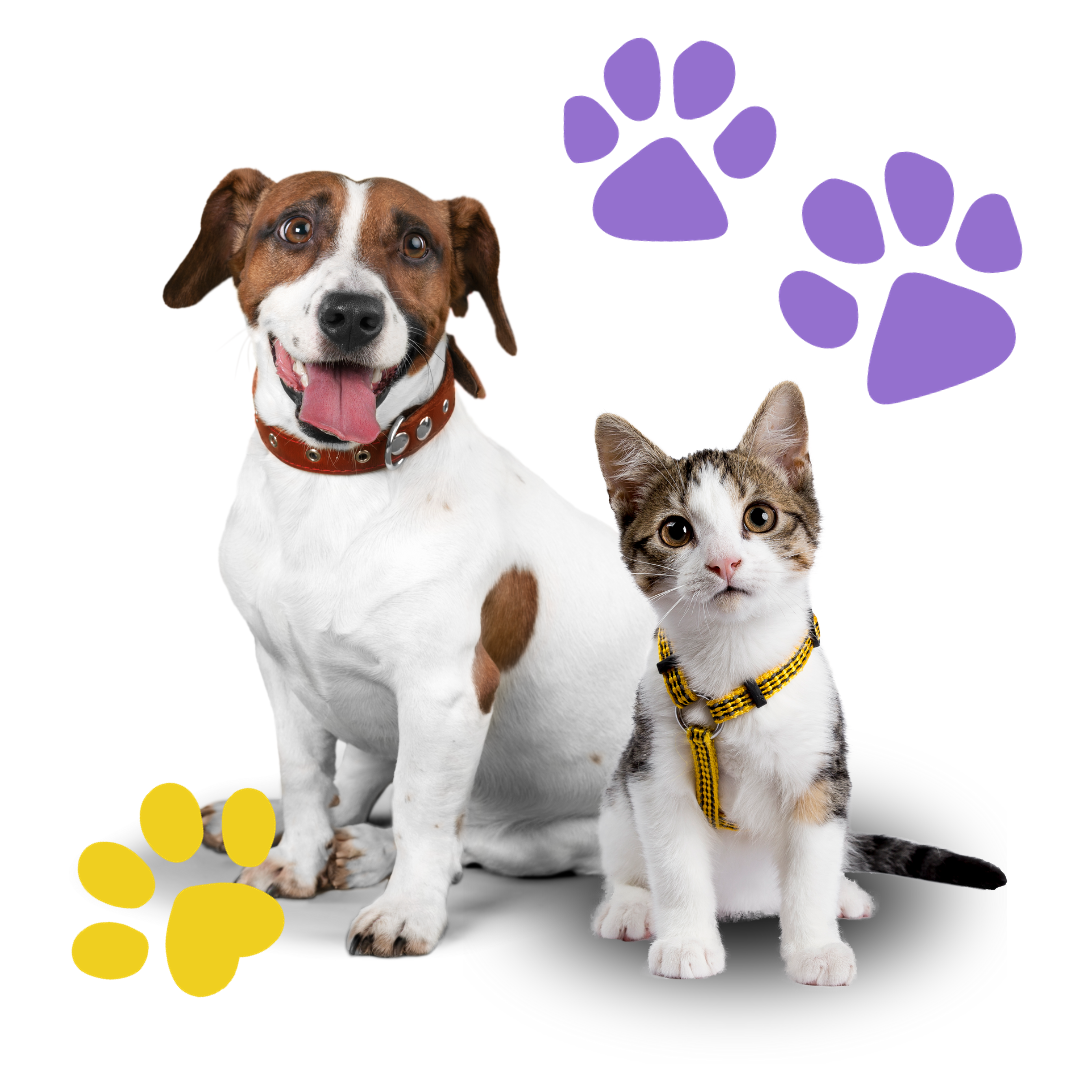
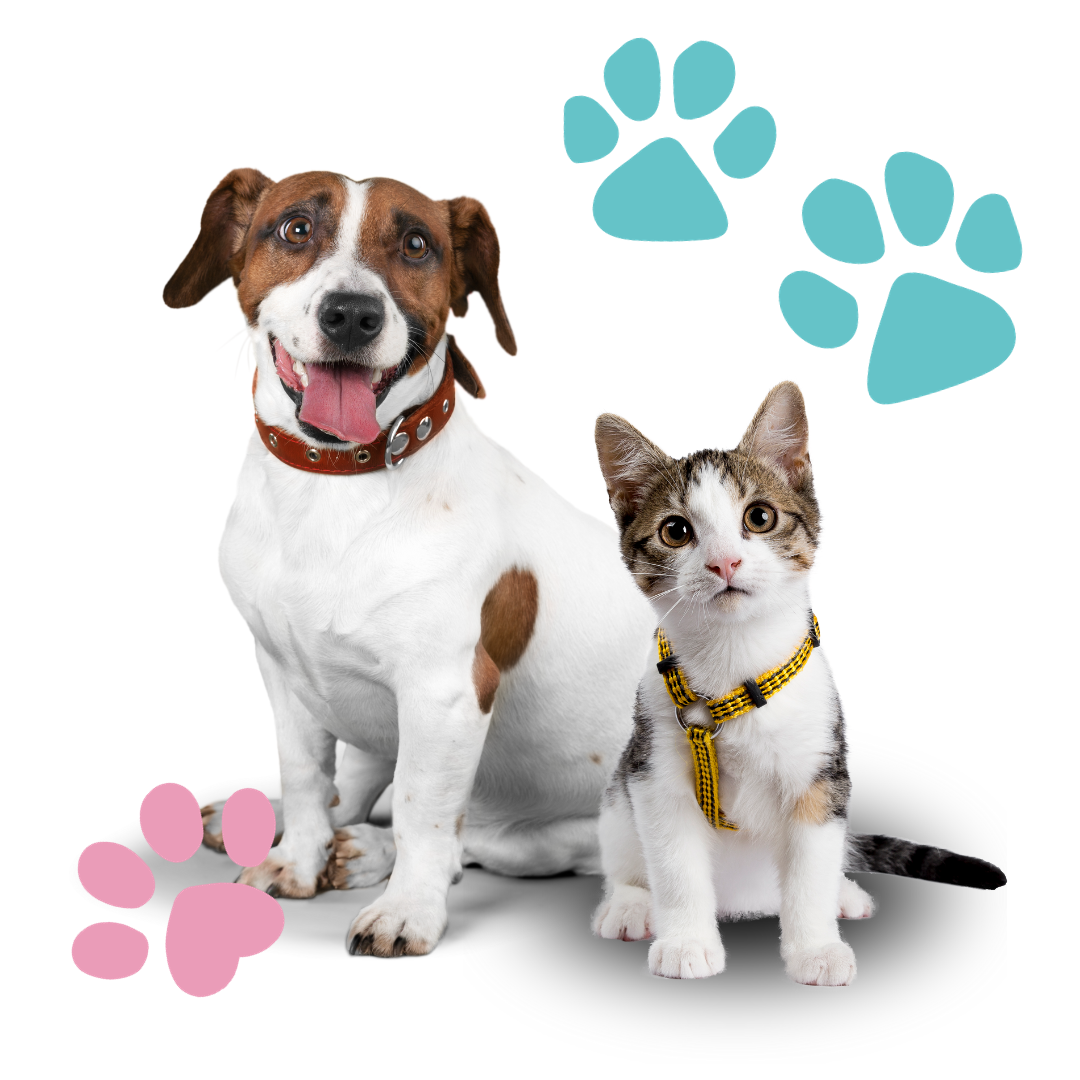
dashboard nav

Changed region(s): [[0.7028, 0.1222, 0.9472, 0.3972], [0.0611, 0.7028, 0.275, 0.9472], [0.5194, 0.0306, 0.7333, 0.2444]]

diff --git a/src/components/pages/About.jsx b/src/components/pages/About.jsx
@@ -4,45 +4,65 @@ import AboutImg from "../../assets/images/aboutImg.jpeg";
 const About = () => {
   return (
     <>
-      <section className="mt-32 bg-secondary px-4 pb-20 pt-4">
+      <section className="mt-32 bg-gray-50 px-4 pb-20 pt-4" id="about">
         <div className="container mx-auto">
           <div className="mt-32 flex flex-wrap items-center">
             <div className="mx-auto mt-24 flex w-full justify-center px-4 md:w-4/12 lg:mt-0">
-              <div className="shadow-lg shadow-blue-gray/10 bg-secondary rounded-2xl">
-                <div className="relative h-56  rounded-2xl">
+              <div
+                className="shadow-lg shadow-blue-gray/10 rounded-xl rounded-br-[80px]"
+                style={{
+                  backgroundColor: "#CCCCFF",
+                  width: "80%",
+                  maxWidth: "400px",
+                }}
+              >
+                <div className="relative h-64">
                   <img
                     alt="Card Image"
-                    src={AboutImg}
-                    className="h-full w-full object-cover  rounded-2xl"
+                    src="./images/PetCare10.jpg"
+                    className="h-full w-full object-cover"
                   />
                 </div>
                 <div className="p-4">
-                  <h5 className="mb-3 font-bold text-blue-gray">
+                  <h5 className="mb-3 font-bold text-blue-gray text-lg text-center">
                     Top Notch Services
                   </h5>
-                  <p className="text-blue-gray">
-                    At FurryPals, your pet's comfort and happiness are our top
-                    priorities. Rest assured that when you entrust us with your
-                    furry family members, they'll be showered with love,
-                    attention, and exceptional care. We invite you to be a part
-                    of the FurryPals family and witness the joy and tail-wagging
-                    moments we create every day.
-                  </p>
+                  <ul className="list-none pl-5 text-center">
+                    <li className="mb-2 font-semibold text-blue-gray">
+                      Boarding
+                    </li>
+                    <li className="mb-2 font-semibold text-blue-gray">
+                      Daycare
+                    </li>
+                    <li className="mb-2 font-semibold text-blue-gray">
+                      Grooming
+                    </li>
+                    <li className="mb-2 font-semibold text-blue-gray">
+                      Training
+                    </li>
+                  </ul>
                 </div>
               </div>
             </div>
 
-            <div className="mx-auto -mt-8 w-full px-4 md:w-5/12">
-              <h3 className="mb-3 font-bold text-blue-gray">
+            <div className="mx-auto mt-8 w-full px-4 md:w-5/12">
+              <h3 className="mb-3 font-bold text-3xl text-[#3C0A44] lg:w-1/2">
                 Working with us is a pleasure
               </h3>
               <p className="mb-8 text-blue-gray">
-                We're here to ensure your beloved pets receive the finest care
-                possible. At FurryPals, our mission is to provide a home away
-                from home for your furry companions. We understand the
-                importance of their well-being, and our dedicated team of
-                pet-loving professionals is committed to making their stay
-                enjoyable and safe
+                At FurryPals, your pet's comfort and happiness are our top
+                priorities. Rest assured that when you entrust us with your
+                furry family members, they'll be showered with love, attention,
+                and exceptional care. We invite you to be a part of the
+                FurryPals family and witness the joy and tail-wagging moments we
+                create every day. We're here to ensure your beloved pets receive
+                the finest care possible.
+                <br />
+                <br />
+                Our mission is to provide a home away from home for your furry
+                companions. We understand the importance of their well-being,
+                and our dedicated team of pet-loving professionals is committed
+                to making their stay enjoyable and safe
                 <br />
                 <br />
                 We offer a range of services, from grooming and spa treatments
@@ -52,7 +72,9 @@ const About = () => {
                 our top-tier medical care ensures your pets are in excellent
                 health throughout their journey with us.
               </p>
-              <button className="btn btn-primary text-white">Sign Up</button>
+              <button className="bg-yellow-400 hover:bg-purple-300 text-white font-bold py-2 px-4 rounded outline-none focus:outline-none focus:ring focus:ring-blue-200">
+                Read More...
+              </button>
             </div>
           </div>
         </div>

diff --git a/src/components/Dashboard/User/Userdash.jsx b/src/components/Dashboard/User/Userdash.jsx
@@ -5,8 +5,9 @@ import { UserAuth } from "../../auth/AuthContext";
 import { Fragment } from "react";
 import { Disclosure, Menu, Transition } from "@headlessui/react";
 import { Bars3Icon, BellIcon, XMarkIcon } from "@heroicons/react/24/outline";
-import Logo from "../../../assets/images/FurryPals.png";
+import Logo from "../../../assets/images/FurryPalsfooter.png";
 import { Link, useLocation } from "react-router-dom";
+import Community from "./Community";
 
 const userSignOut = () => {
   signOut(auth)
@@ -59,7 +60,7 @@ const Userdash = () => {
   return (
     <>
       <div className="h-32 fixed w-full">
-        <Disclosure as="nav" className="bg-white">
+        <Disclosure as="nav" className="bg-secondary">
           {({ open }) => (
             <>
               <div className="mx-auto max-w-7xl px-4 sm:px-6 lg:px-8">
@@ -69,7 +70,7 @@ const Userdash = () => {
                       <img
                         className="h-24 sm:h-24"
                         src={Logo}
-                        alt="Your Company"
+                        alt="FurryPals Logo"
                       />
                     </div>
                     <div className="hidden md:block">
@@ -80,8 +81,8 @@ const Userdash = () => {
                             to={item.href}
                             className={classNames(
                               item.current
-                                ? "bg-white text-neutral hover:bg-purple-200 rounded-md"
-                                : "bg-white text-neutral hover:bg-purple-200 rounded-md",
+                                ? "bg-secondary text-neutral hover:bg-purple-200 rounded-md"
+                                : "bg-secondary text-neutral hover:bg-purple-200 rounded-md",
                               " px-3 py-2 text-sm font-medium"
                             )}
                             aria-current={item.current ? "page" : undefined}
@@ -230,19 +231,31 @@ const Userdash = () => {
           )}
         </Disclosure>
 
-        <header className="bg-purple-300 shadow">
+        <header className="bg-white shadow">
           <div className="mx-auto max-w-7xl px-4 py-2 sm:px-6 lg:px-8">
-            <h1 className="text-3xl font-bold tracking-tight text-white">
+            <h1 className="text-3xl font-bold tracking-tight text-neutral">
               Dashboard
             </h1>
           </div>
         </header>
         <main>
-          <div className="mx-auto max-w-7xl py-6 sm:px-6 lg:px-8 bg-slate-500 rounded-3xl">
-            {shouldShowDiv1 ? <div>Your div content here1 </div> : null}
+          <div className="mx-5 max-w-7xl py-6 my-5 sm:px-6 lg:px-8  bg-base-300 rounded-3xl">
+            {shouldShowDiv1 ? (
+              <div>
+                <div class="grid grid-rows-3 grid-flow-col gap-4">
+                  <div class="row-span-3 ...">01</div>
+                  <div class="col-span-2 ...">02</div>
+                  <div class="row-span-2 col-span-2 ...">03</div>
+                </div>{" "}
+              </div>
+            ) : null}
             {shouldShowDiv2 ? <div>Your div content here2 </div> : null}
             {shouldShowDiv3 ? <div>Your div content here 3 </div> : null}
-            {shouldShowDiv4 ? <div>Your div content here 4 </div> : null}
+            {shouldShowDiv4 ? (
+              <div>
+                <Community />
+              </div>
+            ) : null}
             {shouldShowDiv5 ? <div>Your div content here 5 </div> : null}
           </div>
         </main>

diff --git a/src/components/pages/Notfound.jsx b/src/components/pages/Notfound.jsx
@@ -1,7 +1,37 @@
 import React from "react";
+import { Link } from "react-router-dom";
+import Pug from "../../assets/images/pug_404.png";
 
 const Notfound = () => {
-  return <div>Notfound</div>;
+  return (
+    <>
+      <main className="grid  h-screen overflow-y-auto place-items-center bg-white px-6 py-24 sm:py-32 lg:px-8">
+        <div className="text-center">
+          <p className="text-base font-semibold text-accent">404</p>
+          <h1 className="mt-4 text-3xl font-bold tracking-tight text-gray-900 sm:text-5xl">
+            Boop not found!
+          </h1>
+          <img
+            src={Pug}
+            className="absolute right-0  top-1/2 h-72"
+            alt="pug 404"
+          />
+          <p className="mt-6 text-base leading-7 text-gray-600">
+            Sorry, we couldn’t find the page you’re looking for.
+          </p>
+
+          <div className="mt-10 flex items-center justify-center gap-x-6">
+            <Link
+              to="/"
+              className="rounded-md bg-accent px-3.5 py-2.5 text-sm font-semibold text-white shadow-sm hover:bg-indigo-500 focus-visible:outline focus-visible:outline-2 focus-visible:outline-offset-2 focus-visible:outline-indigo-600"
+            >
+              Go back home
+            </Link>
+          </div>
+        </div>
+      </main>
+    </>
+  );
 };
 
 export default Notfound;

diff --git a/src/components/pages/Hero.jsx b/src/components/pages/Hero.jsx
@@ -9,7 +9,7 @@ const Hero = () => {
           <div className="hero-content flex-col lg:flex-row-reverse">
             <img
               src={banner}
-              className="lg:h-[500px] hover:scale-125 ease-in duration-300"
+              className="lg:h-[500px] hover:scale-105 ease-in duration-100"
             />
             <div>
               <h1 className="text-5xl font-bold"> Consult or Visit Us</h1>
@@ -21,7 +21,7 @@ const Hero = () => {
               </p>
               <div className="space-x-5 space-y-4">
                 <button className="btn btn-primary">Sign Up</button>
-                <button className="btn btn-secondary">Learn More...</button>
+                <button className="btn btn-accent ">Learn More</button>
               </div>
             </div>
           </div>

diff --git a/src/components/Dashboard/User/Petcard.jsx b/src/components/Dashboard/User/Petcard.jsx
@@ -1,0 +1,27 @@
+import React from "react";
+import { Link } from "react-router-dom";
+
+const Petcard = ({ petimage }) => {
+  console.log(petimage);
+  return (
+    <>
+      <div className="card card-compact w-96 bg-base-100 shadow-xl">
+        <figure>
+          <img
+            src="/images/stock/photo-1606107557195-0e29a4b5b4aa.jpg"
+            alt="Shoes"
+          />
+        </figure>
+        <div className="card-body">
+          <h2 className="card-title"></h2>
+          <p>If a dog chews shoes whose shoes does he choose?</p>
+          <div className="card-actions justify-end">
+            <button className="btn btn-primary">Buy Now</button>
+          </div>
+        </div>
+      </div>
+    </>
+  );
+};
+
+export default Petcard;

diff --git a/tailwind.config.js b/tailwind.config.js
@@ -2,7 +2,29 @@
 export default {
   content: ["./index.html", "./src/**/*.{js,ts,jsx,tsx}"],
   daisyui: {
-    themes: ["cupcake"],
+    themes: [
+      {
+        mytheme: {
+          primary: "#65c3c8",
+
+          secondary: "#ef9fbc",
+
+          accent: "#eeaf3a",
+
+          neutral: "#374151",
+
+          "base-100": "#f5f5f4",
+
+          info: "#3abff8",
+
+          success: "#36d399",
+
+          warning: "#fbbd23",
+
+          error: "#f87272",
+        },
+      },
+    ],
   },
   plugins: [require("daisyui")],
 };

diff --git a/src/components/Dashboard/User/Community.jsx b/src/components/Dashboard/User/Community.jsx
@@ -1,7 +1,11 @@
-import React from "react";
-
 const Community = () => {
-  return <div>Community</div>;
+  return (
+    <section id="pets" className="my-4">
+      <h3 className="text-center">Pet Gallery</h3>
+      <input className="" type="text" placeholder="Search MMOs" />
+      <div className="grid grid-cols-4 gap-4"></div>
+    </section>
+  );
 };
 
 export default Community;

diff --git a/src/lib/http.js b/src/lib/http.js
@@ -1,0 +1,11 @@
+import axios from "axios";
+
+const http = axios.create({
+  baseURL: import.meta.env.VITE_API,
+  headers: {
+    "X-RapidAPI-Key": import.meta.env.VITE_API_KEY,
+    "X-RapidAPI-Host": import.meta.env.VITE_HOST,
+  },
+});
+
+export default http;

diff --git a/src/App.jsx b/src/App.jsx
@@ -80,7 +80,6 @@ function App() {
             element={
               <PrivateRoute>
                 <UserDash />
-                <Community />
               </PrivateRoute>
             }
           />
